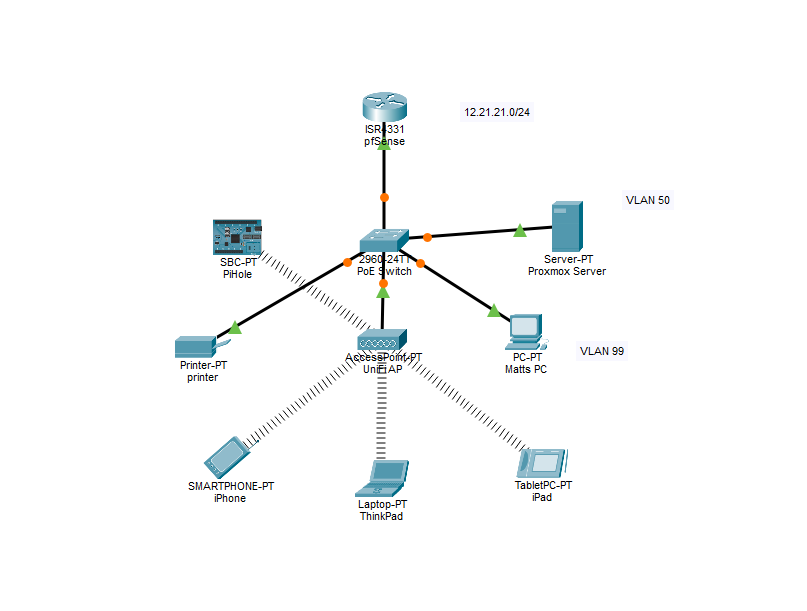
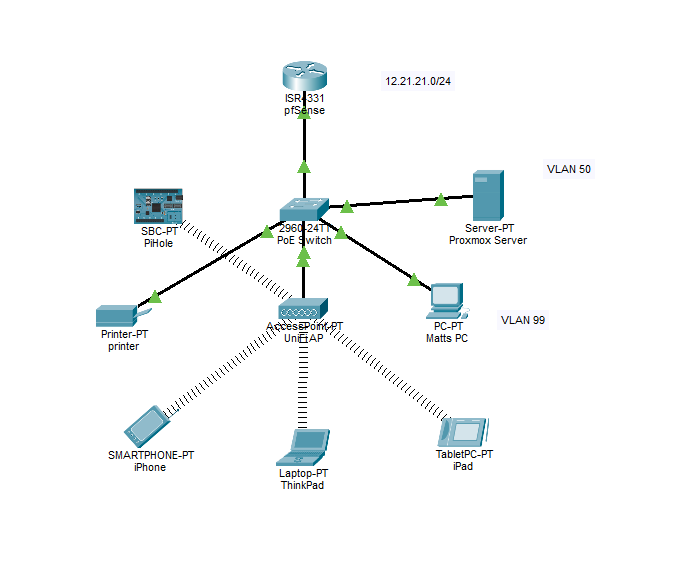
Update the pfSense home edge diagram and note it's built for real
Claude-Session: https://claude.ai/code/session_01PqXA4b5wpUfhnUu7Ct6pAS

diff --git a/src/data/projects.ts b/src/data/projects.ts
@@ -531,11 +531,11 @@ cat /etc/pve/storage.cfg`,
     images: [
       {
         src: pfsense,
-        alt: "Packet Tracer diagram of the home network: pfSense at the top feeding a PoE switch, which connects the Proxmox server, a PC, a printer, the Pi-hole and a UniFi access point serving a phone, laptop and tablet",
+        alt: "Packet Tracer diagram of the home network: pfSense at the top on 12.21.21.0/24 feeding a PoE switch, which connects the Proxmox server on VLAN 50, a PC on VLAN 99, a printer, the Pi-hole and a UniFi access point serving an iPhone, a ThinkPad and an iPad",
       },
     ],
     overview:
-      "An ISP router decides everything for you. Replacing it with an open-source firewall put routing, DHCP, DNS and the firewall rules where I can see and change them.",
+      "An ISP router decides everything for you. Replacing it with an open-source firewall put routing, DHCP, DNS and the firewall rules where I can see and change them. The diagram is a Packet Tracer model of the network, but the network itself is built on real hardware; a photo of it will go up once it's mounted in a server rack.",
     built: [
       "pfSense+ on a Netgate 1100, its WAN facing the ISP router in bridge mode.",
       "LAN into a 6-port unmanaged switch, later replaced with a different switch.",
